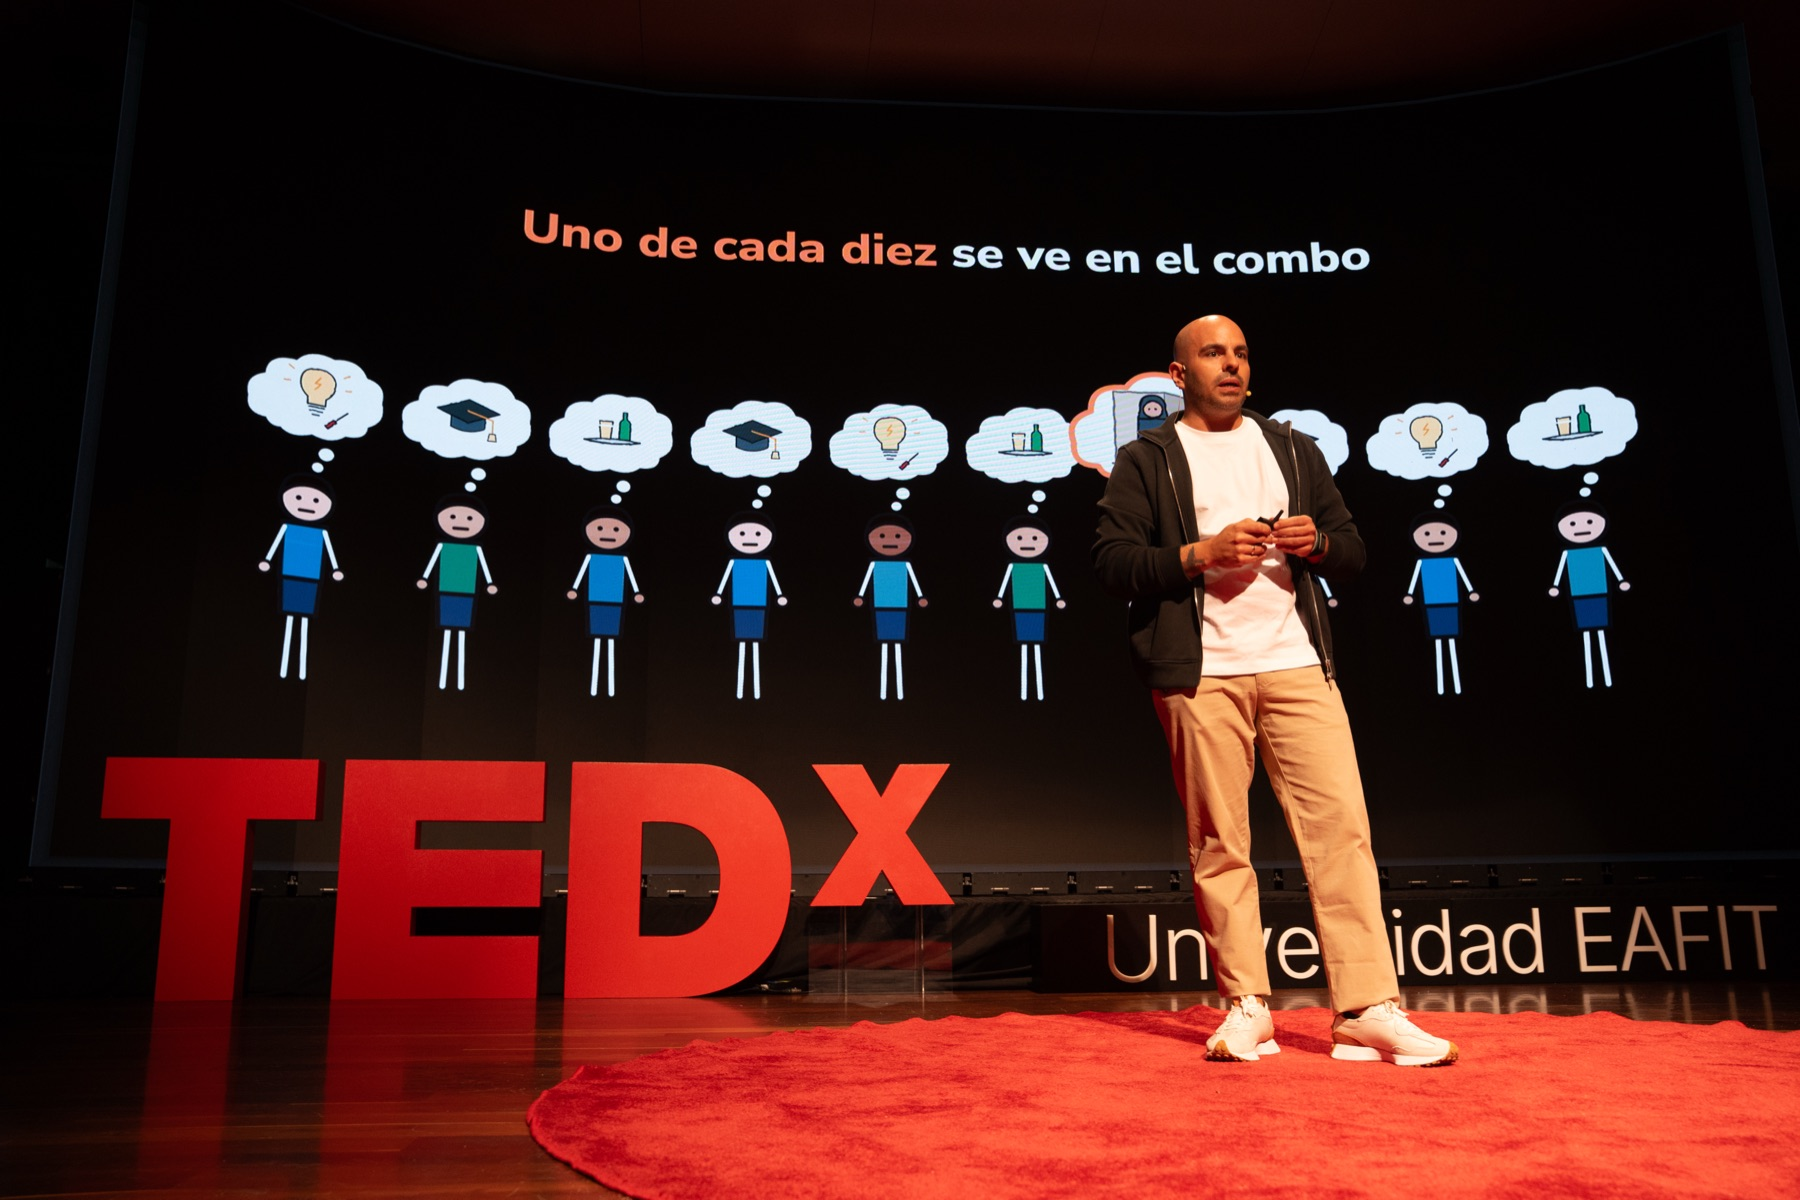
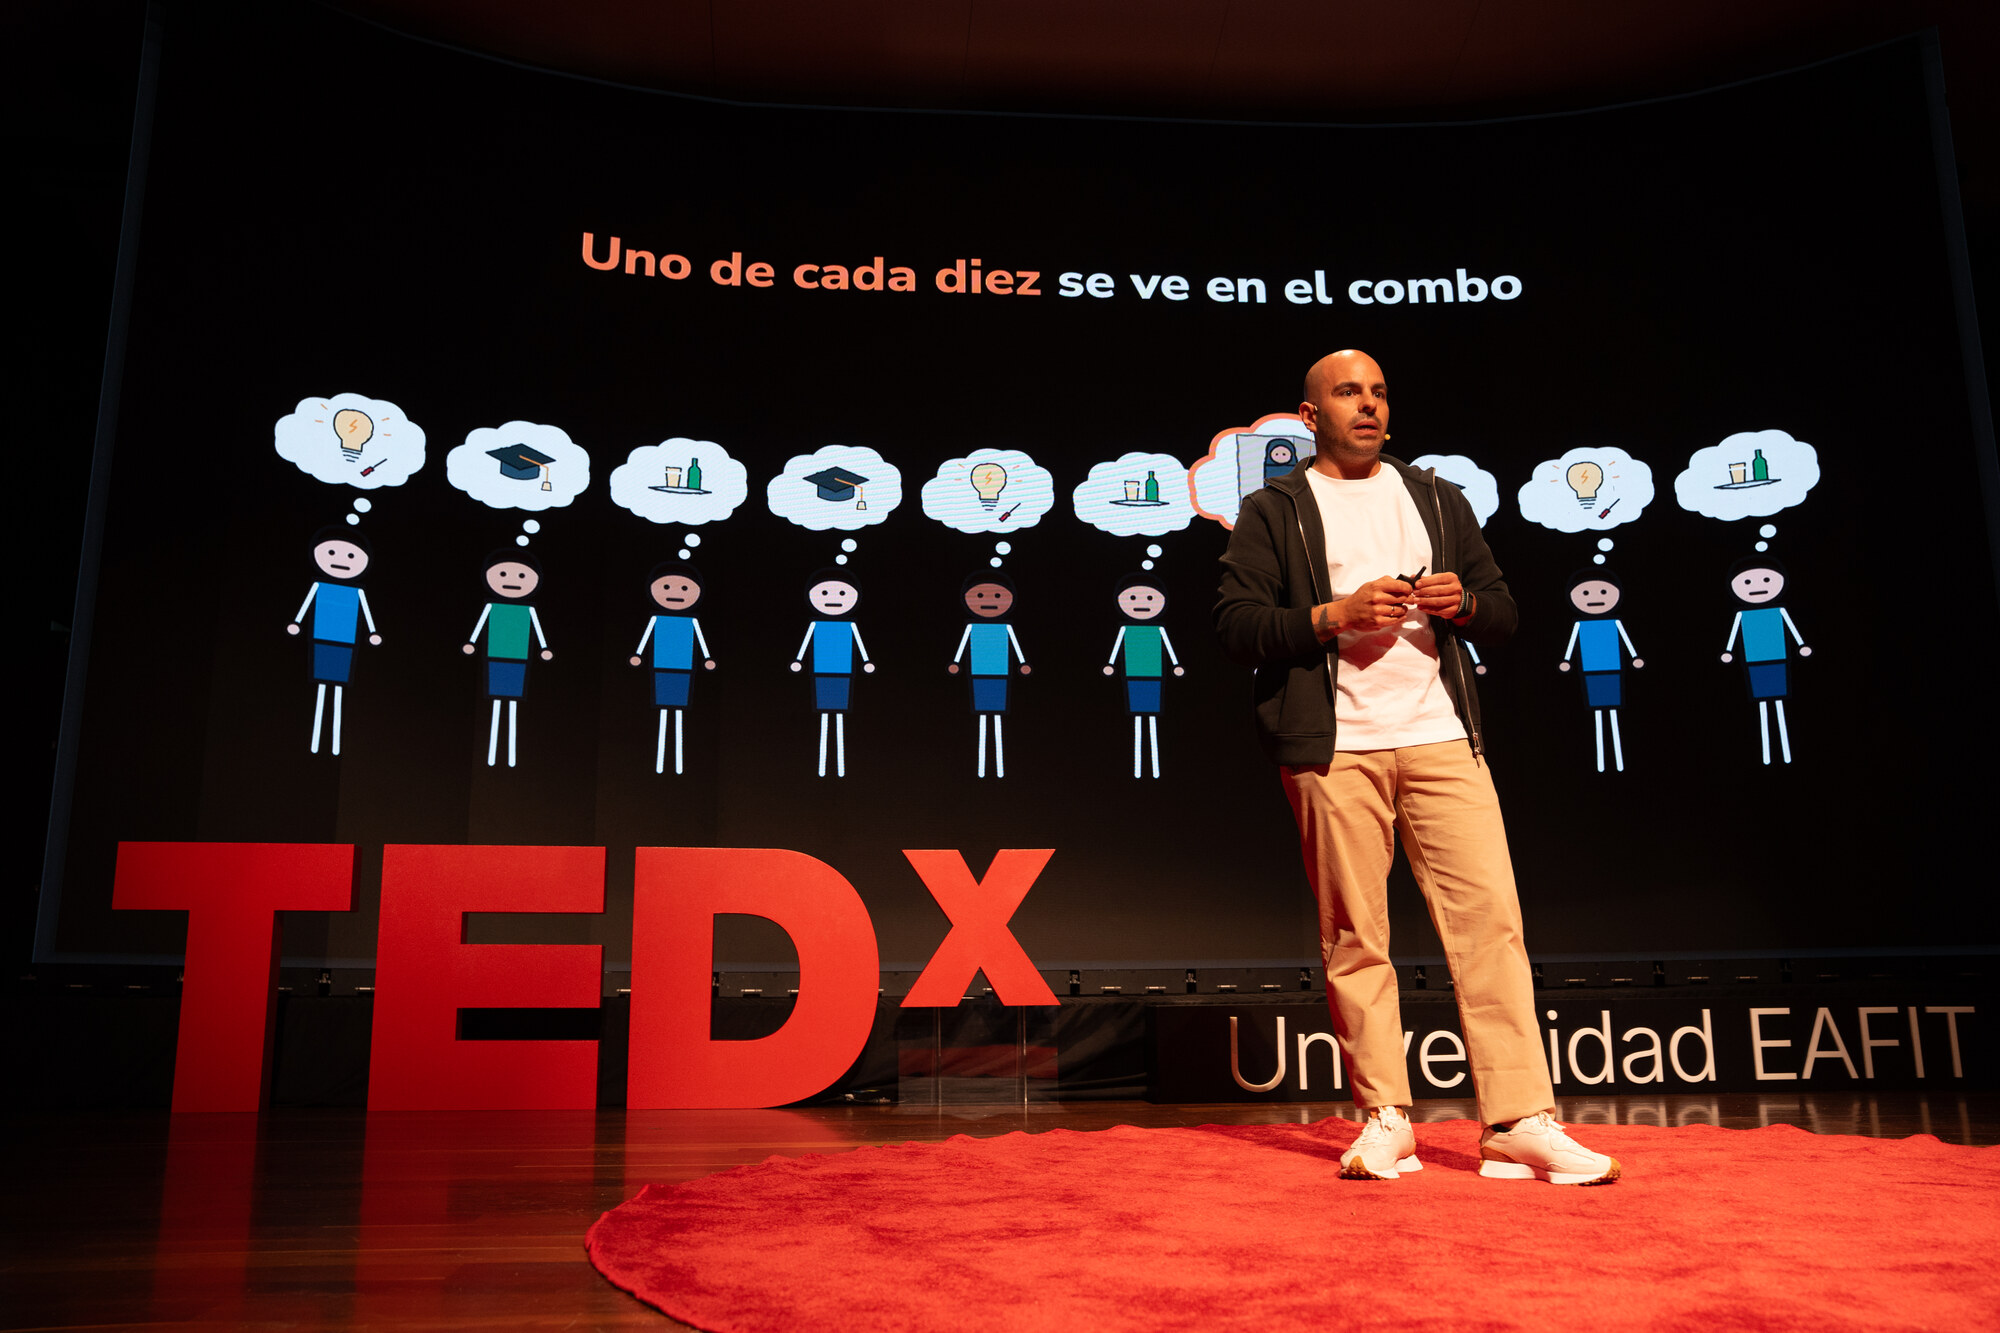
Design: remove full-width auditorium photo, sharper photos from originals, smaller type scale

Changed region(s): [[0.8089, 0.7708, 0.84, 0.8017], [0.7778, 0.8633, 0.8089, 0.8942]]

diff --git a/theme/css/site.css b/theme/css/site.css
@@ -31,7 +31,7 @@ body {
   background: #FFFFFF;
   color: var(--body);
   font-family: var(--sans);
-  font-size: 17px;
+  font-size: 16px;
   line-height: 1.65;
   border-top: 4px solid var(--accent);
 }
@@ -80,7 +80,7 @@ img { max-width: 100%; height: auto; }
 
 .site-name {
   font-family: var(--serif);
-  font-size: 22px;
+  font-size: 20px;
   font-weight: 600;
   color: var(--ink);
 }
@@ -110,10 +110,10 @@ main { flex: 1 0 auto; width: 100%; }
 .page { max-width: var(--text); margin: 0 auto; padding: 32px 32px 0; }
 
 .page h1, .page h2, .page h3 { font-family: var(--serif); color: var(--ink); font-weight: 600; line-height: 1.2; }
-.page h1 { font-size: 48px; margin: 28px 0 20px; letter-spacing: -0.015em; }
-.page h2 { font-size: 30px; margin: 72px 0 16px; }
+.page h1 { font-size: 38px; margin: 28px 0 20px; letter-spacing: -0.015em; }
+.page h2 { font-size: 24px; margin: 64px 0 14px; }
 .page h2::before { content: ""; display: block; width: 36px; height: 3px; background: var(--accent); margin-bottom: 18px; }
-.page h3 { font-size: 21px; margin: 36px 0 10px; }
+.page h3 { font-size: 19px; margin: 36px 0 10px; }
 .page p, .page li { color: var(--body); }
 .page ul, .page ol { padding-left: 1.2em; }
 .page li { margin: 6px 0; }
@@ -137,14 +137,14 @@ main { flex: 1 0 auto; width: 100%; }
 .pub-entry .pub-title {
   display: block;
   font-family: var(--serif);
-  font-size: 20px;
+  font-size: 18px;
   line-height: 1.35;
   color: var(--ink);
 }
 .pub-entry a.pub-title { text-decoration: underline; text-decoration-thickness: 1px; text-underline-offset: 4px; text-decoration-color: #C9C9C9; }
 .pub-entry a.pub-title:hover { color: var(--link); text-decoration-color: currentColor; }
-.pub-entry .pub-meta { display: block; margin-top: 4px; font-size: 15px; color: var(--muted); }
-.pub-entry .pub-meta em { font-family: var(--serif); font-size: 16.5px; color: #3A3A3A; }
+.pub-entry .pub-meta { display: block; margin-top: 4px; font-size: 14.5px; color: var(--muted); }
+.pub-entry .pub-meta em { font-family: var(--serif); font-size: 15.5px; color: #3A3A3A; }
 .pub-entry .pub-links { display: block; margin-top: 4px; font-size: 14px; }
 
 details.pub-abstract { margin-top: 6px; font-size: 15px; }
@@ -176,49 +176,45 @@ details.pub-group > summary {
 .hero-text h1 {
   margin: 0 0 22px;
   font-family: var(--serif);
-  font-size: 64px;
-  line-height: 1.02;
+  font-size: 48px;
+  line-height: 1.05;
   font-weight: 600;
   letter-spacing: -0.02em;
   color: var(--ink);
 }
-.hero-text .lede { margin: 0 0 18px; font-size: 20px; line-height: 1.6; color: var(--body); }
-.hero-text .roles { margin: 0 0 28px; font-size: 16px; line-height: 1.6; color: var(--muted); }
+.hero-text .lede { margin: 0 0 18px; font-size: 18px; line-height: 1.6; color: var(--body); }
+.hero-text .roles { margin: 0 0 26px; font-size: 15px; line-height: 1.6; color: var(--muted); }
 .hero-text .links { margin: 0; display: flex; flex-wrap: wrap; gap: 6px 22px; font-size: 15px; font-weight: 500; }
 .hero figure { flex: 1 1 380px; min-width: 0; margin: 0; }
 .hero figure img { width: 100%; aspect-ratio: 4 / 3.4; object-fit: cover; object-position: 60% center; display: block; }
-.hero figcaption, .photo-band figcaption { margin-top: 8px; font-size: 13px; color: var(--muted); }
-
+.hero figcaption, 
 .band-tint { background: var(--tint); padding: 52px 0 56px; }
 .latest { display: flex; flex-wrap: wrap; gap: 16px 48px; }
 .latest .eyebrow { flex: 0 0 200px; margin: 2px 0 0; }
 .latest ul { list-style: none; margin: 0; padding: 0; flex: 1 1 560px; min-width: 0; display: flex; flex-direction: column; gap: 14px; }
-.latest li { font-size: 18px; line-height: 1.5; display: flex; gap: 4px 20px; flex-wrap: wrap; }
+.latest li { font-size: 16px; line-height: 1.5; display: flex; gap: 4px 20px; flex-wrap: wrap; }
 .latest .when { flex: 0 0 76px; color: var(--muted); font-size: 14px; padding-top: 3px; }
 .latest .what { flex: 1 1 300px; min-width: 0; }
 
-.photo-band { margin: 0; }
-.photo-band img { width: 100%; height: clamp(260px, 35vw, 700px); object-fit: cover; object-position: center 3%; display: block; }
-.photo-band figcaption { max-width: var(--wide); margin: 8px auto 0; padding: 0 32px; }
 
 .index { padding-top: 40px; }
 .index + .band-dark { margin-top: 40px; }
 .band-dark + .index { padding-top: 40px; }
-.index-row { border-top: 1px solid var(--rule); padding: 40px 0; display: flex; flex-wrap: wrap; gap: 12px 48px; }
+.index-row { border-top: 1px solid var(--rule); padding: 32px 0; display: flex; flex-wrap: wrap; gap: 12px 48px; }
 .index-row:first-child { border-top: 0; }
-.index-row h2 { margin: 0; flex: 0 0 200px; font-family: var(--serif); font-size: 32px; font-weight: 600; color: var(--ink); line-height: 1.15; }
+.index-row h2 { margin: 0; flex: 0 0 200px; font-family: var(--serif); font-size: 24px; font-weight: 600; color: var(--ink); line-height: 1.15; }
 .index-row h2::before { content: ""; display: block; width: 36px; height: 3px; background: var(--accent); margin-bottom: 16px; }
 .index-row .body { flex: 1 1 560px; min-width: 0; padding-top: 19px; }
-.index-row p { margin: 0 0 12px; font-size: 18px; line-height: 1.6; }
+.index-row p { margin: 0 0 12px; font-size: 16.5px; line-height: 1.6; }
 .index-row .more { font-size: 15px; font-weight: 500; }
 
-.band-dark { background: var(--dark); color: var(--on-dark); padding: 80px 0 84px; }
+.band-dark { background: var(--dark); color: var(--on-dark); padding: 64px 0 68px; }
 .book-feature { max-width: 880px; }
 .book-feature .eyebrow { color: var(--accent-on-dark); font-size: 13px; line-height: 1.5; margin: 0 0 14px; }
-.book-feature h2 { margin: 0 0 20px; font-family: var(--serif); font-size: 46px; line-height: 1.1; font-weight: 600; letter-spacing: -0.01em; color: var(--on-dark); }
+.book-feature h2 { margin: 0 0 18px; font-family: var(--serif); font-size: 34px; line-height: 1.1; font-weight: 600; letter-spacing: -0.01em; color: var(--on-dark); }
 .book-feature h2 em { font-weight: 400; }
-.book-feature p { margin: 0 0 24px; font-size: 20px; line-height: 1.6; color: var(--on-dark-muted); }
-.book-feature a { color: var(--on-dark); font-size: 16px; font-weight: 600; text-decoration: underline; text-underline-offset: 4px; text-decoration-color: var(--accent-on-dark); }
+.book-feature p { margin: 0 0 22px; font-size: 17px; line-height: 1.6; color: var(--on-dark-muted); }
+.book-feature a { color: var(--on-dark); font-size: 15px; font-weight: 600; text-decoration: underline; text-underline-offset: 4px; text-decoration-color: var(--accent-on-dark); }
 .book-feature a:hover { color: #FFFFFF; }
 .book-feature a:focus-visible { outline-color: var(--on-dark); }
 
@@ -232,13 +228,12 @@ details.pub-group > summary {
 @media (max-width: 640px) {
   body { font-size: 16px; }
   .site-header, .page, .wrap { padding-left: 16px; padding-right: 16px; }
-  .photo-band figcaption { padding: 0 16px; }
-  .hero { padding-bottom: 56px; }
-  .hero-text h1 { font-size: 44px; }
-  .page h1 { font-size: 36px; }
-  .page h2 { font-size: 25px; margin-top: 56px; }
-  .index-row h2 { font-size: 27px; }
-  .book-feature h2 { font-size: 34px; }
+    .hero { padding-bottom: 56px; }
+  .hero-text h1 { font-size: 38px; }
+  .page h1 { font-size: 32px; }
+  .page h2 { font-size: 22px; margin-top: 52px; }
+  .index-row h2 { font-size: 22px; }
+  .book-feature h2 { font-size: 28px; }
   .band-tint { padding: 40px 0 44px; }
   .band-dark { padding: 56px 0 60px; }
   .latest .eyebrow { flex-basis: 100%; }
@@ -246,13 +241,11 @@ details.pub-group > summary {
   .site-header nav a, .on-page a, .hero-text .links a { display: inline-block; padding: 9px 0; }
   .pub-entry .pub-links a { display: inline-block; padding: 6px 0; }
   .index-row .more, .book-feature a { display: inline-block; padding: 6px 0; }
-  .photo-band img { height: auto; }
-}
+  }
 
 @media print {
   body { border-top: 0; font-size: 11pt; color: #000; }
-  .skip, .site-header nav, .on-page, .site-footer, .photo-band { display: none; }
-  a { color: #000; }
+  .skip, .site-header nav, .on-page, .site-footer,   a { color: #000; }
   .page, .home-main, .wrap { max-width: none; padding: 0; }
   .band-tint, .band-dark { background: none; color: #000; padding: 16px 0; }
   .book-feature h2, .book-feature p, .book-feature a { color: #000; }

diff --git a/docs/index.es.md b/docs/index.es.md
@@ -6,7 +6,7 @@
 <p class="links"><a href="../cv/cv_santiago_tobon.pdf">CV (PDF)</a><a href="https://scholar.google.com.co/citations?user=lLZedAMAAAAJ&amp;hl=es">Google Scholar</a><a href="https://ideas.repec.org/f/pto355.html">IDEAS/RePEc</a><a href="mailto:stobonz@eafit.edu.co">Correo</a><a href="https://twitter.com/santiagotobon">X</a></p>
 </div>
 <figure>
-<img src="../img/tedx-stage.jpg" srcset="../img/tedx-stage-800.jpg 800w, ../img/tedx-stage.jpg 1800w" sizes="(max-width: 900px) 100vw, 560px" width="1800" height="1200" alt="Santiago Tobón en el escenario de TEDxUniversidad EAFIT">
+<img src="../img/tedx-stage.jpg" srcset="../img/tedx-stage-1200.jpg 1200w, ../img/tedx-stage.jpg 2000w" sizes="(max-width: 900px) 100vw, 540px" width="2000" height="1333" alt="Santiago Tobón en el escenario de TEDxUniversidad EAFIT">
 </figure>
 </section>
 
@@ -21,13 +21,6 @@
 </div>
 </section>
 
-<figure class="photo-band">
-<picture>
-<source media="(max-width: 640px)" srcset="../img/tedx-room-mobile.jpg" width="900" height="620">
-<img src="../img/tedx-room-1600.jpg" srcset="../img/tedx-room-800.jpg 800w, ../img/tedx-room-1600.jpg 1600w, ../img/tedx-room-2400.jpg 2400w" sizes="100vw" width="2400" height="1600" loading="lazy" decoding="async" alt="Santiago Tobón ante un auditorio lleno en TEDxUniversidad EAFIT">
-</picture>
-<figcaption>En TEDxUniversidad EAFIT, octubre de 2026</figcaption>
-</figure>
 
 <section class="wrap index">
 <div class="index-row">

diff --git a/docs/index.md b/docs/index.md
@@ -6,7 +6,7 @@
 <p class="links"><a href="cv/cv_santiago_tobon.pdf">CV (PDF)</a><a href="https://scholar.google.com.co/citations?user=lLZedAMAAAAJ&amp;hl=en">Google Scholar</a><a href="https://ideas.repec.org/f/pto355.html">IDEAS/RePEc</a><a href="mailto:stobonz@eafit.edu.co">Email</a><a href="https://twitter.com/santiagotobon">X</a></p>
 </div>
 <figure>
-<img src="img/tedx-stage.jpg" srcset="img/tedx-stage-800.jpg 800w, img/tedx-stage.jpg 1800w" sizes="(max-width: 900px) 100vw, 560px" width="1800" height="1200" alt="Santiago Tobón on stage at TEDxUniversidad EAFIT">
+<img src="img/tedx-stage.jpg" srcset="img/tedx-stage-1200.jpg 1200w, img/tedx-stage.jpg 2000w" sizes="(max-width: 900px) 100vw, 540px" width="2000" height="1333" alt="Santiago Tobón on stage at TEDxUniversidad EAFIT">
 </figure>
 </section>
 
@@ -21,13 +21,6 @@
 </div>
 </section>
 
-<figure class="photo-band">
-<picture>
-<source media="(max-width: 640px)" srcset="img/tedx-room-mobile.jpg" width="900" height="620">
-<img src="img/tedx-room-1600.jpg" srcset="img/tedx-room-800.jpg 800w, img/tedx-room-1600.jpg 1600w, img/tedx-room-2400.jpg 2400w" sizes="100vw" width="2400" height="1600" loading="lazy" decoding="async" alt="Santiago Tobón speaking to a full auditorium at TEDxUniversidad EAFIT">
-</picture>
-<figcaption>Speaking at TEDxUniversidad EAFIT, October 2026</figcaption>
-</figure>
 
 <section class="wrap index">
 <div class="index-row">

diff --git a/docs/centro.md b/docs/centro.md
@@ -36,7 +36,7 @@ In Antioquia, women spend up to 14 hours a day on unpaid care work. In 65 percen
 
 <div class="project-row" markdown>
 <div class="project-img">
-<img loading="lazy" decoding="async" width="900" height="450" src="../img/ocensa.jpg" alt="Mountains and waterfalls in Florián, Santander, along the pipeline route">
+<img loading="lazy" decoding="async" width="852" height="426" src="../img/ocensa.jpg" alt="Mountains and waterfalls in Florián, Santander, along the pipeline route">
 </div>
 <div class="project-text" markdown>
 

diff --git a/docs/centro.es.md b/docs/centro.es.md
@@ -36,7 +36,7 @@ En Antioquia, las mujeres dedican hasta 14 horas al día al trabajo de cuidado n
 
 <div class="project-row" markdown>
 <div class="project-img">
-<img loading="lazy" decoding="async" width="900" height="450" src="../../img/ocensa.jpg" alt="Montañas y cascadas en Florián, Santander">
+<img loading="lazy" decoding="async" width="852" height="426" src="../../img/ocensa.jpg" alt="Montañas y cascadas en Florián, Santander">
 </div>
 <div class="project-text" markdown>
 
